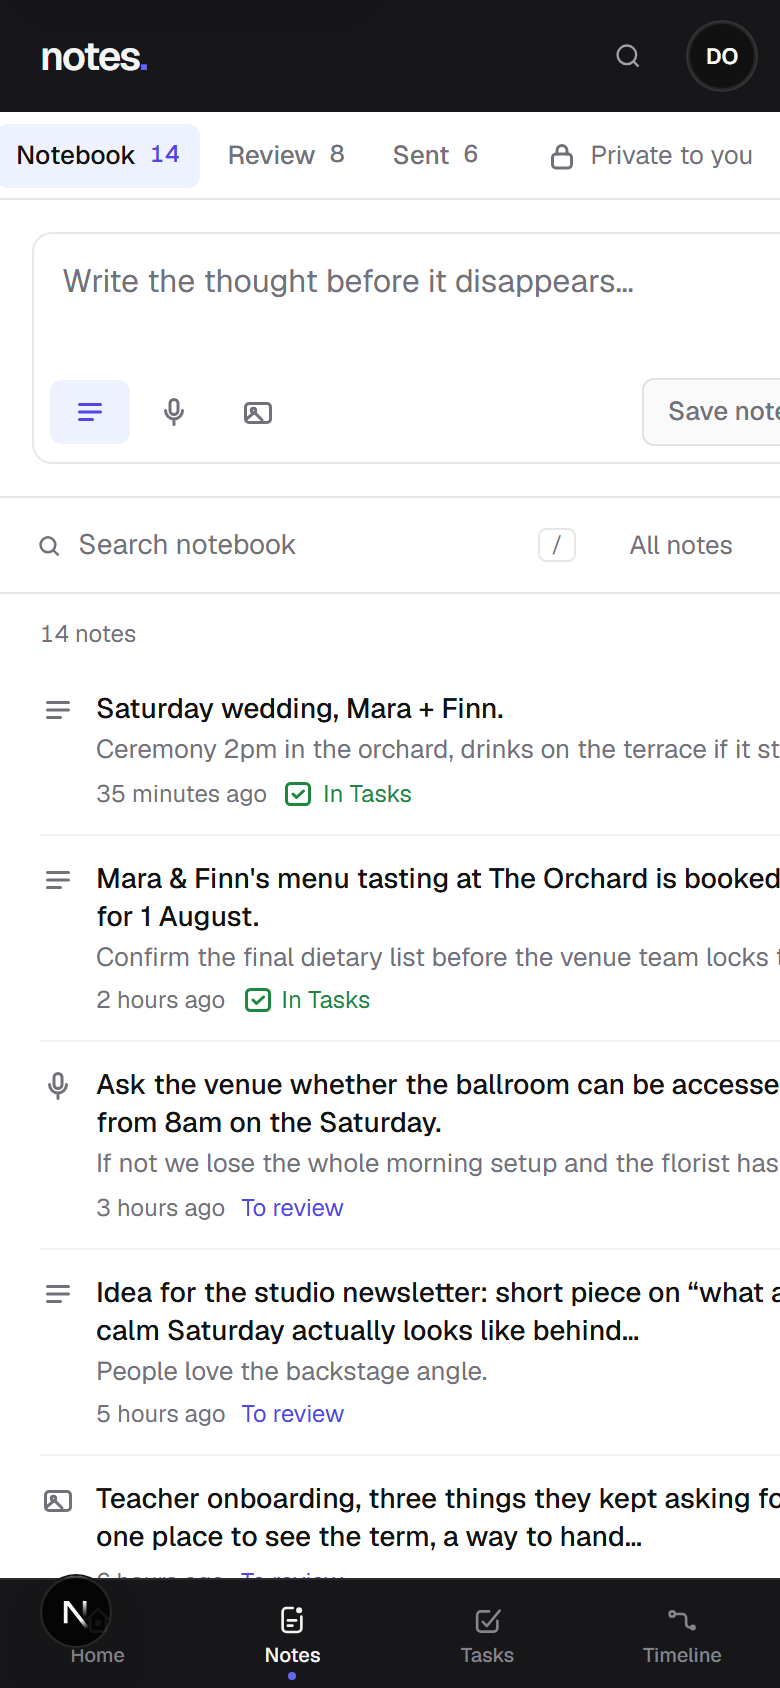
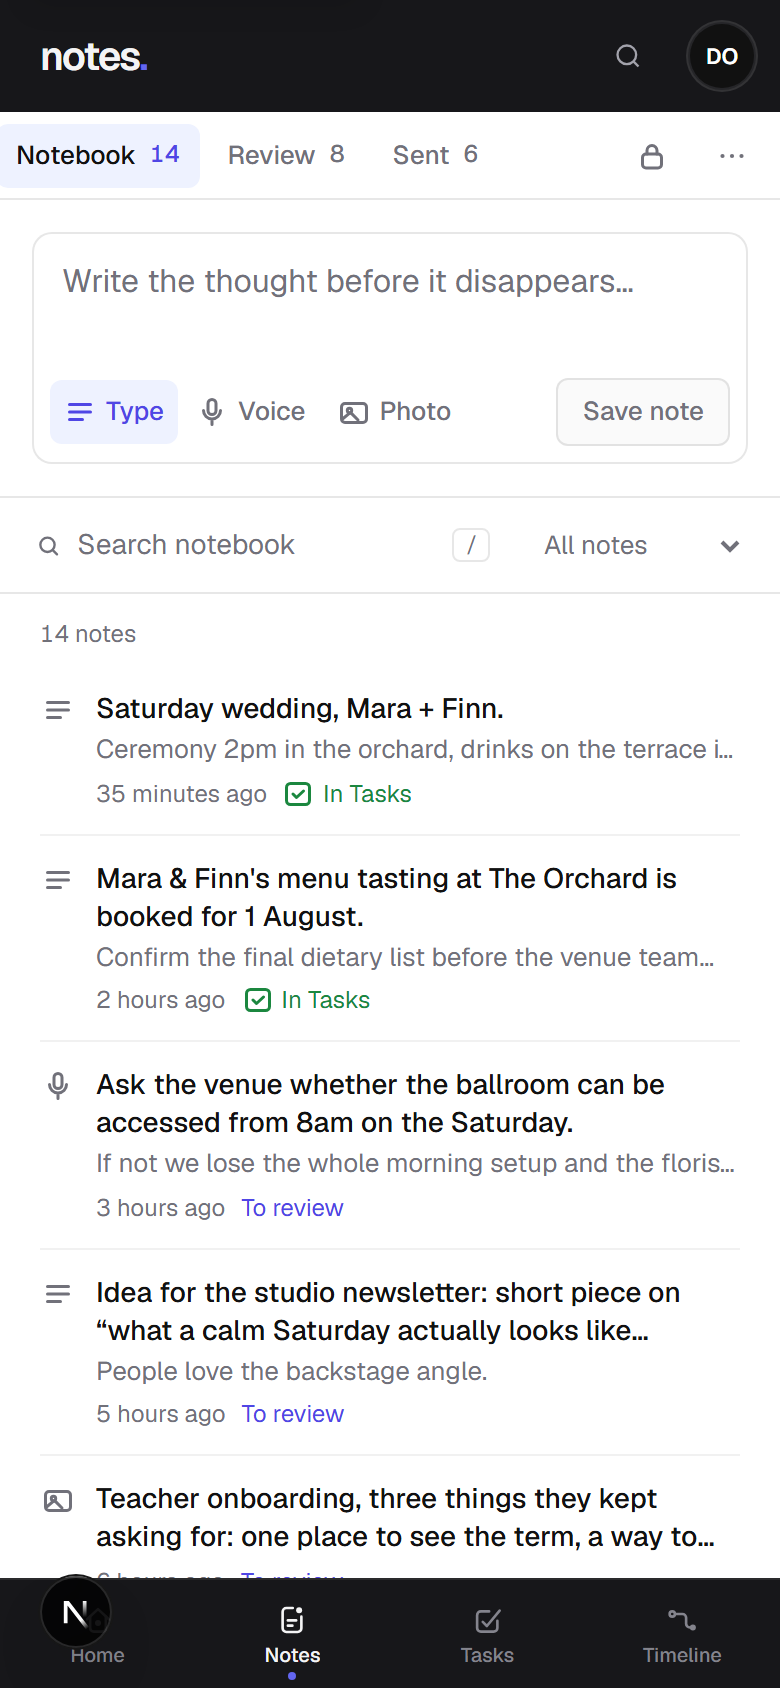
Every control keeps its name at the width a phone uses
The repo's own critical-experience gate caught it: 143 of 144 cases passed
and the mobile Notes case failed with a critical axe `button-name`. Below
600px the three capture modes were icon-only, and the icons are decorative,
so Type, Voice and Photo had no accessible name at all. Desktop was clean,
which is exactly why the desktop-only axe pass in the Notes suite missed it.

The capture labels are now visible on a phone rather than hidden. Speaking a
note matters most on the device you carry, and that is where the word
"Voice" was being dropped — the round-1 panel said so and this is the same
defect wearing two hats.

The privacy words give way to their padlock at that width, but visually
only: `display: none` had taken that button's accessible name too. Tapping
it still says everything.

Verified at 320, 390, 600, 768, 1024, 1440 and 1920 across all three views:
no horizontal overflow anywhere, no serious or critical axe violations
anywhere. A mobile axe case is now part of the Notes suite (23/23) so this
class of defect cannot pass at desktop again.

diff --git a/experience/feature-tests/notes-hybrid.spec.ts b/experience/feature-tests/notes-hybrid.spec.ts
@@ -545,6 +545,27 @@ test("the empty states are quiet", async ({ page }) => {
   expect(fontSize).toBeLessThanOrEqual(20);
 });
 
+test("every control keeps its name at the width a phone uses", async ({ page }) => {
+  // The three composer modes were icon-only below 600px, and their icons are
+  // decorative, so all three buttons had no accessible name at all. Desktop
+  // was clean, which is exactly why this is asserted at 390.
+  await page.setViewportSize({ width: 390, height: 844 });
+  await openNotes(page);
+  for (const name of ["Type", "Voice", "Photo"]) {
+    await expect(
+      page.getByRole("button", { name, exact: true }),
+    ).toBeVisible();
+  }
+  const results = await new AxeBuilder({ page })
+    .include("[data-notes-workspace]")
+    .analyze();
+  expect(
+    results.violations.filter((violation) =>
+      ["serious", "critical"].includes(violation.impact ?? ""),
+    ),
+  ).toEqual([]);
+});
+
 test("no serious or critical accessibility violations on any of the three views", async ({
   page,
 }) => {

diff --git a/src/modules/notes/app/workspace/notes-workspace.module.css b/src/modules/notes/app/workspace/notes-workspace.module.css
@@ -1605,14 +1605,25 @@ textarea.fieldControl {
     padding: 8px;
   }
 
-  .modeButton span {
-    display: none;
+  /* The capture labels stay visible. Speaking a note matters most on the
+     device you carry, and that is where "Voice" was being dropped. */
+  .modeButton {
+    gap: 5px;
+    padding: 0 7px;
   }
 
-  .modeButton {
-    inline-size: 40px;
-    justify-content: center;
+  /* The privacy words give way to their padlock, but only visually: hidden
+     with display:none the button had no accessible name at all, which is the
+     same defect the capture modes had. Tapping it still says everything. */
+  .privacyText {
+    position: absolute;
+    inline-size: 1px;
+    block-size: 1px;
     padding: 0;
+    margin: -1px;
+    overflow: hidden;
+    clip-path: inset(50%);
+    white-space: nowrap;
   }
 
   /* A keycap is advice for a keyboard nobody here has. */
